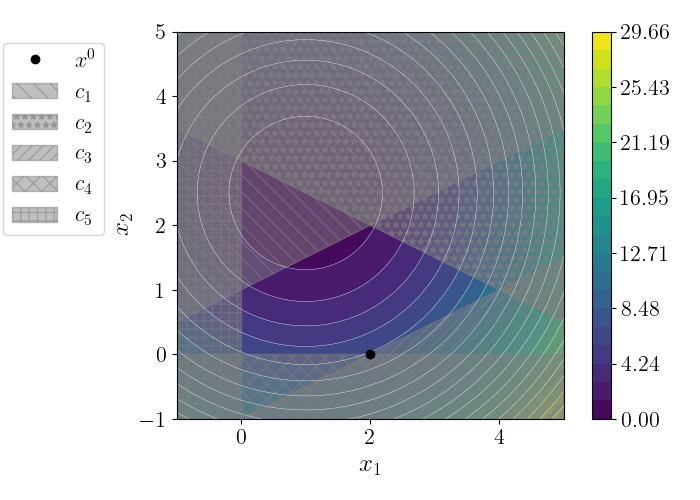
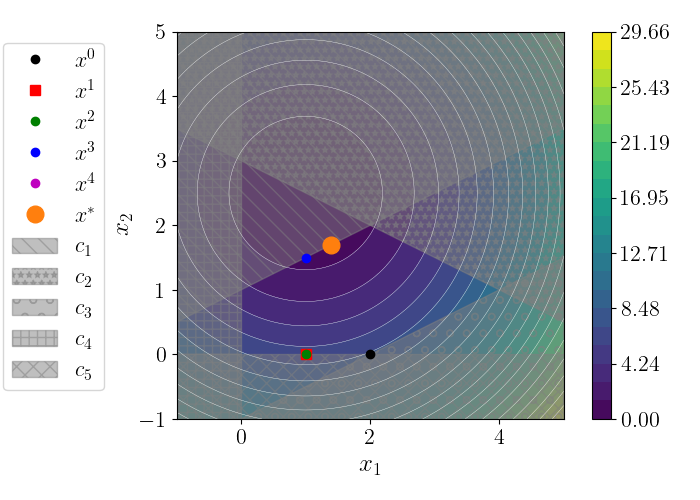
Finished exercise 1.5

diff --git a/mtaho/w05/ex02.py b/mtaho/w05/ex02.py
@@ -15,6 +15,7 @@ sys.path.append(os.path.realpath(f"{projectDir}"))
 from mtaho.plot_settings import define_plot_settings
 from mtaho.src.FiniteDifference import FD
 from mtaho.src.BasicOpt import Opt
+from mtaho.src.Solvers import Solvers
 
 workDir = f"{projectDir}/mtaho/w05"
 
@@ -35,13 +36,147 @@ At = np.array(([[1  ,-2],
                 [-1 ,-2],
                 [-1 ,2],
                 [1  ,0],
-                [0  ,0]])) 
+                [0  ,1]])) 
 A = At.T
 
+b = - np.array([[2, 6, 2, 0, 0]]).T
 
+### Manual active set algorithm:
 
+## 1) We start at: x0 = (2, 0), i.e. W = {3, 5}
 
+W = [2, 4]
+Aw = A[:, W]
+bw = b[W]
 
+x, lam = Solvers.solveEqualityQP(H, g, Aw, bw, 'LDL')    
+
+print(f"x = \n {x}")
+print(f"lam = \n {lam}")
+
+# x = [2, 0]
+# lam = [-2, -1], so we drop c3
+
+## 2) Then we solve the equality constrained subproblem for the direction
+# min: 0.5*p'Hp + g'p 
+# s.t.   Aw p = 0
+
+xk = x
+gk = H @ xk + g
+
+W = [4]
+Aw = A[:, W]
+bw = b[W]
+
+pk, lam = Solvers.solveEqualityQP(H, gk, Aw, np.zeros((len(W), 1)), 'LDL')    
+
+print(f"pk = \n {pk}")
+print(f"lam = \n {lam}")
+
+# p = [-1, 0]
+# lam = [-5]
+
+# Find blocking constraints
+nW = [0, 1, 2, 3]
+Anw = A[:, nW]
+bnw = b[nW]
+print(f"Aw.T @ pk = \n {Anw.T @ pk}")
+
+# Find alpha values from blocking constraints
+iblock = [0, 3]
+alphas = (b[iblock] - Anw[:, iblock].T @ xk)/( Anw[:, iblock].T @ pk )
+alphak = np.min(np.minimum(1, alphas.flatten()))
+
+# No blocking constraints (ai@pk > 0 for all i) so we step with alpha=1
+x1 = x + alphak*pk
+
+## 3) Solve new subproblem 
+
+xk = x1
+gk = H @ xk + g
+
+W = [4]
+Aw = A[:, W]
+bw = b[W]
+
+pk, lam = Solvers.solveEqualityQP(H, gk, Aw, np.zeros((len(W), 1)), 'LDL')    
+
+print(f"pk = \n {pk}")
+print(f"lam = \n {lam}")
+
+# p = [0, 0]
+# lam = [-5]
+
+x2 = x1
+
+# As p=0, we drop c5 as well and solve the unconstrained problem
+
+## 4) Solve unconstrained problem from xk = [1, 0]
+
+xk = x2
+gk = H @ xk + g
+pk = - np.linalg.solve(H, gk)
+
+# Find blocking constraints
+Anw = A
+print(f"Aw.T @ pk =  \n {Anw.T @ pk}")
+
+# Find step length
+iblock = [0, 1]
+alphas = (b[iblock] - Anw[:, iblock].T @ xk)/( Anw[:, iblock].T @ pk )
+alphak = np.min(np.minimum(1, alphas))
+
+# Step 
+p2 = pk
+x3 = x2 + alphak*pk
+
+## 5) There is a single blocking constraint at this point c1, so W = {1}
+
+xk = x3
+gk = H @ xk + g
+
+W = [0]
+Aw = A[:, W]
+bw = b[W]
+
+pk, lam = Solvers.solveEqualityQP(H, gk, Aw, np.zeros((len(W), 1)), 'LDL')    
+
+print(f"pk = \n {pk}")
+print(f"lam = \n {lam}")
+
+# Find blocking constraints
+Anw = A
+nW = [1, 2, 3, 4]
+print(f"Aw.T @ pk =  \n {Anw.T @ pk}")
+
+# Find step length
+iblock = [1]
+alphas = (b[iblock] - Anw[:, iblock].T @ xk)/( Anw[:, iblock].T @ pk )
+alphak = np.min(np.minimum(1, alphas))
+
+# Step 
+x4 = x3 + alphak*pk
+
+# No blocking constraints, so the next working set is unchanged
+
+## 6) Find new step length: W = {1}
+
+xk = x4
+gk = H @ xk + g
+
+W = [0]
+Aw = A[:, W]
+bw = b[W]
+
+pk, lam = Solvers.solveEqualityQP(H, gk, Aw, np.zeros((len(W), 1)), 'LDL')    
+
+print(f"pk = \n {pk}")
+print(f"lam = \n {lam}")
+
+# We have p=0 and the lam > 0, so we have found the solution!
+
+x5 = x4
+xs = x5
 
 ### Contour plot
 xlim = [-1, 5]
@@ -54,6 +189,13 @@ ms = 6
 
 # Plot solutions
 ax.plot(x0[0], x0[1], 'ko', label='$x^0$', markersize=ms)
+ax.plot(x1[0], x1[1], 'rs', label='$x^1$', markersize=ms*1.2)
+ax.plot(x2[0], x2[1], 'go', label='$x^2$', markersize=ms)
+ax.plot(x3[0], x3[1], 'bo', label='$x^3$', markersize=ms)
+ax.plot(x4[0], x4[1], 'mo', label='$x^4$', markersize=ms)
+ax.plot(xs[0], xs[1], 'o', color='tab:orange', label=r'$x^\ast$',
+         markersize=ms*2, markerfacecolor=None)
+# ax.plot(x2[0], x2[1], 'ro', label='$x^1$', markersize=ms)
 # Draw constraints
 xc = np.linspace(xlim[0], xlim[1])
 yc = np.linspace(ylim[0], ylim[1])
@@ -66,11 +208,12 @@ ax.fill_between(xc, yc1, np.repeat(5, 50), color='grey', alpha=alpha, label='$c_
 ax.fill_between(xc, yc2, np.repeat(5, 50), color='grey', alpha=alpha, label='$c_2$',
         hatch='**') 
 ax.fill_between(xc, yc3, np.repeat(-5, 50), color='grey', alpha=alpha, label='$c_3$',
-        hatch='///') 
-ax.fill_between(xc, np.repeat(-5, 50), color='grey', alpha=alpha, label='$c_4$',
-        hatch='xx') 
-ax.fill_betweenx(yc, np.repeat(-5, 50), color='grey', alpha=alpha, label='$c_5$',
+        hatch='o') 
+ax.fill_betweenx(yc, np.repeat(-5, 50), color='grey', alpha=alpha, label='$c_4$',
                 hatch='++') 
+ax.fill_between(xc, np.repeat(-5, 50), color='grey', alpha=alpha, label='$c_5$',
+        hatch='xx') 
+
 
 ax.set_xlim(xlim)
 ax.set_ylim(xlim)
